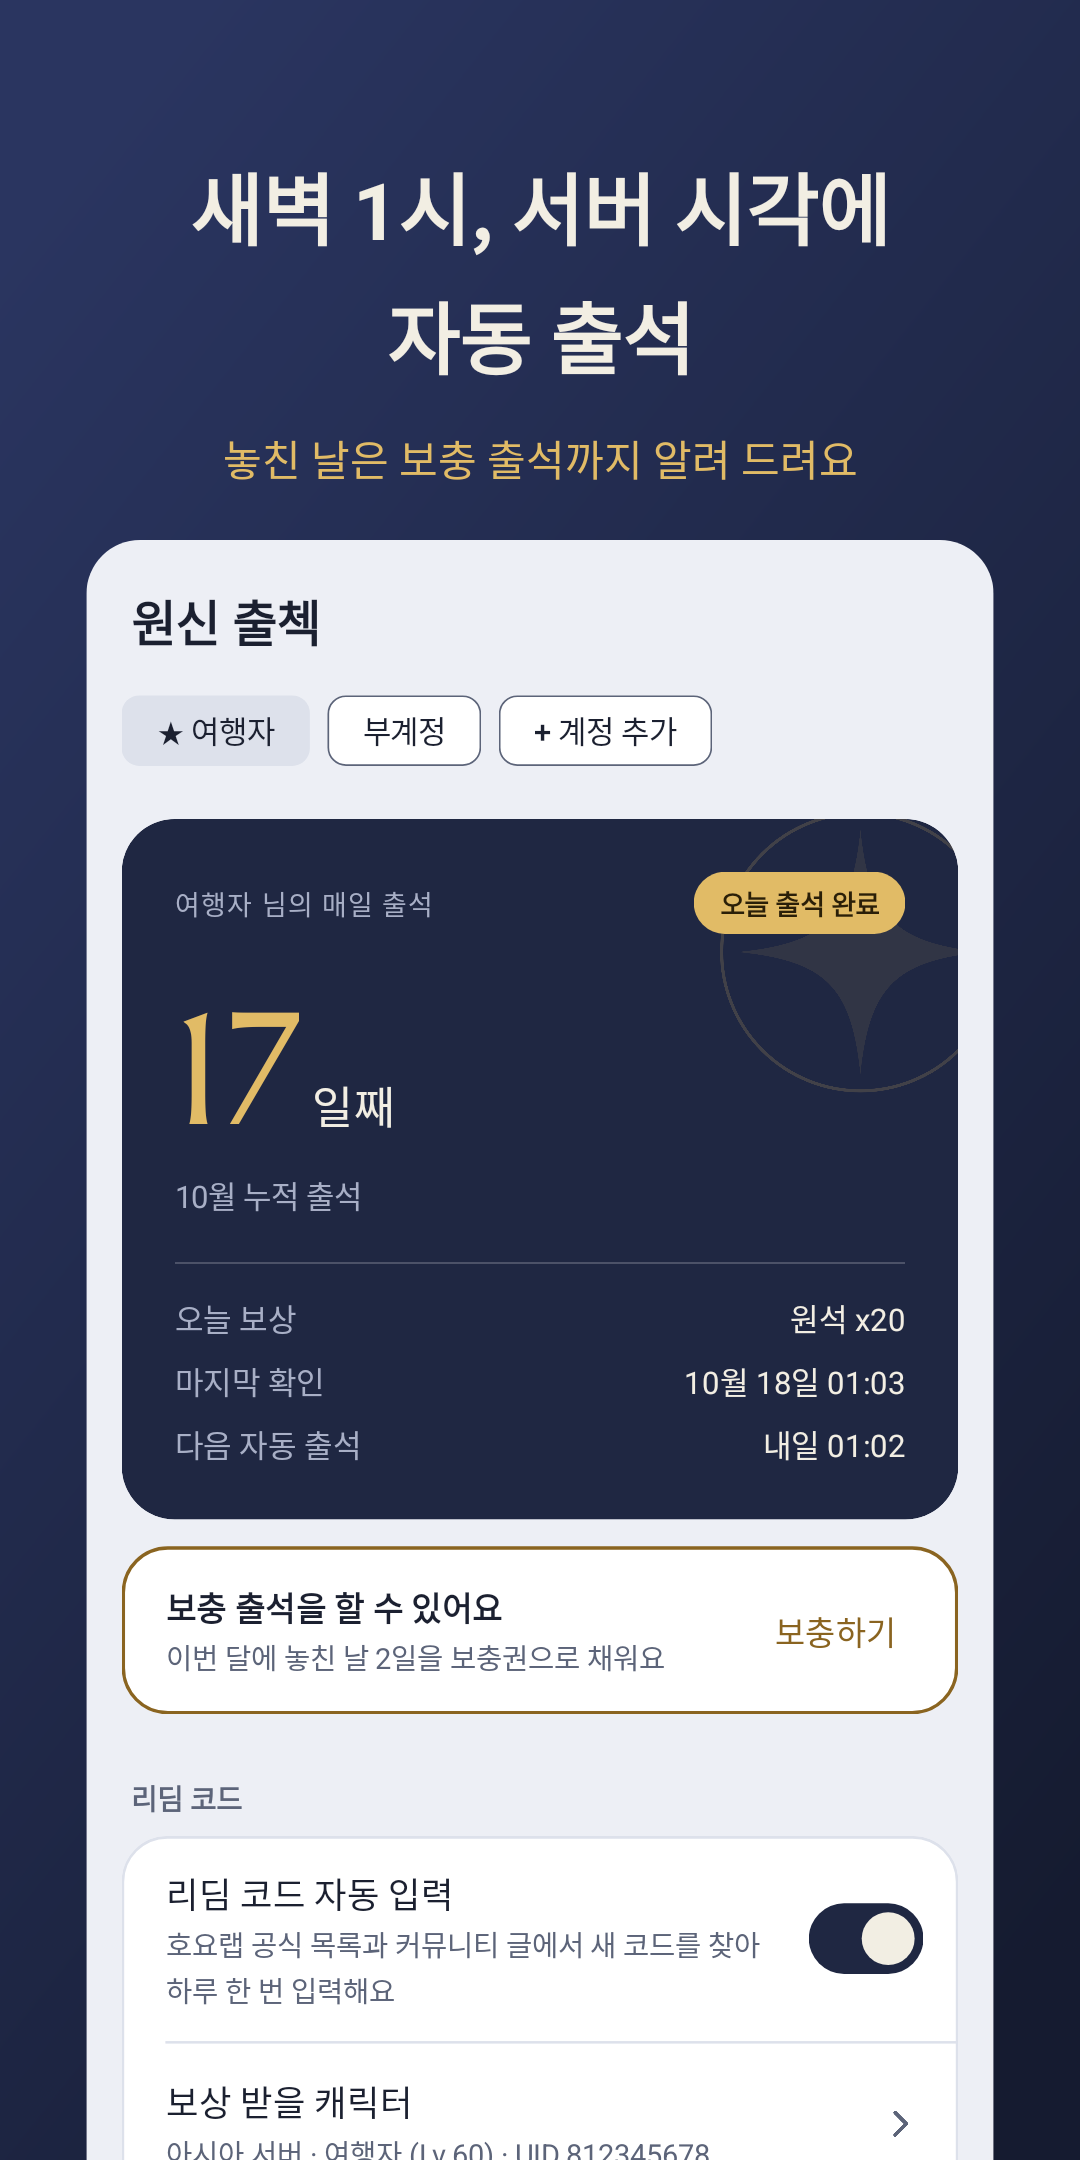
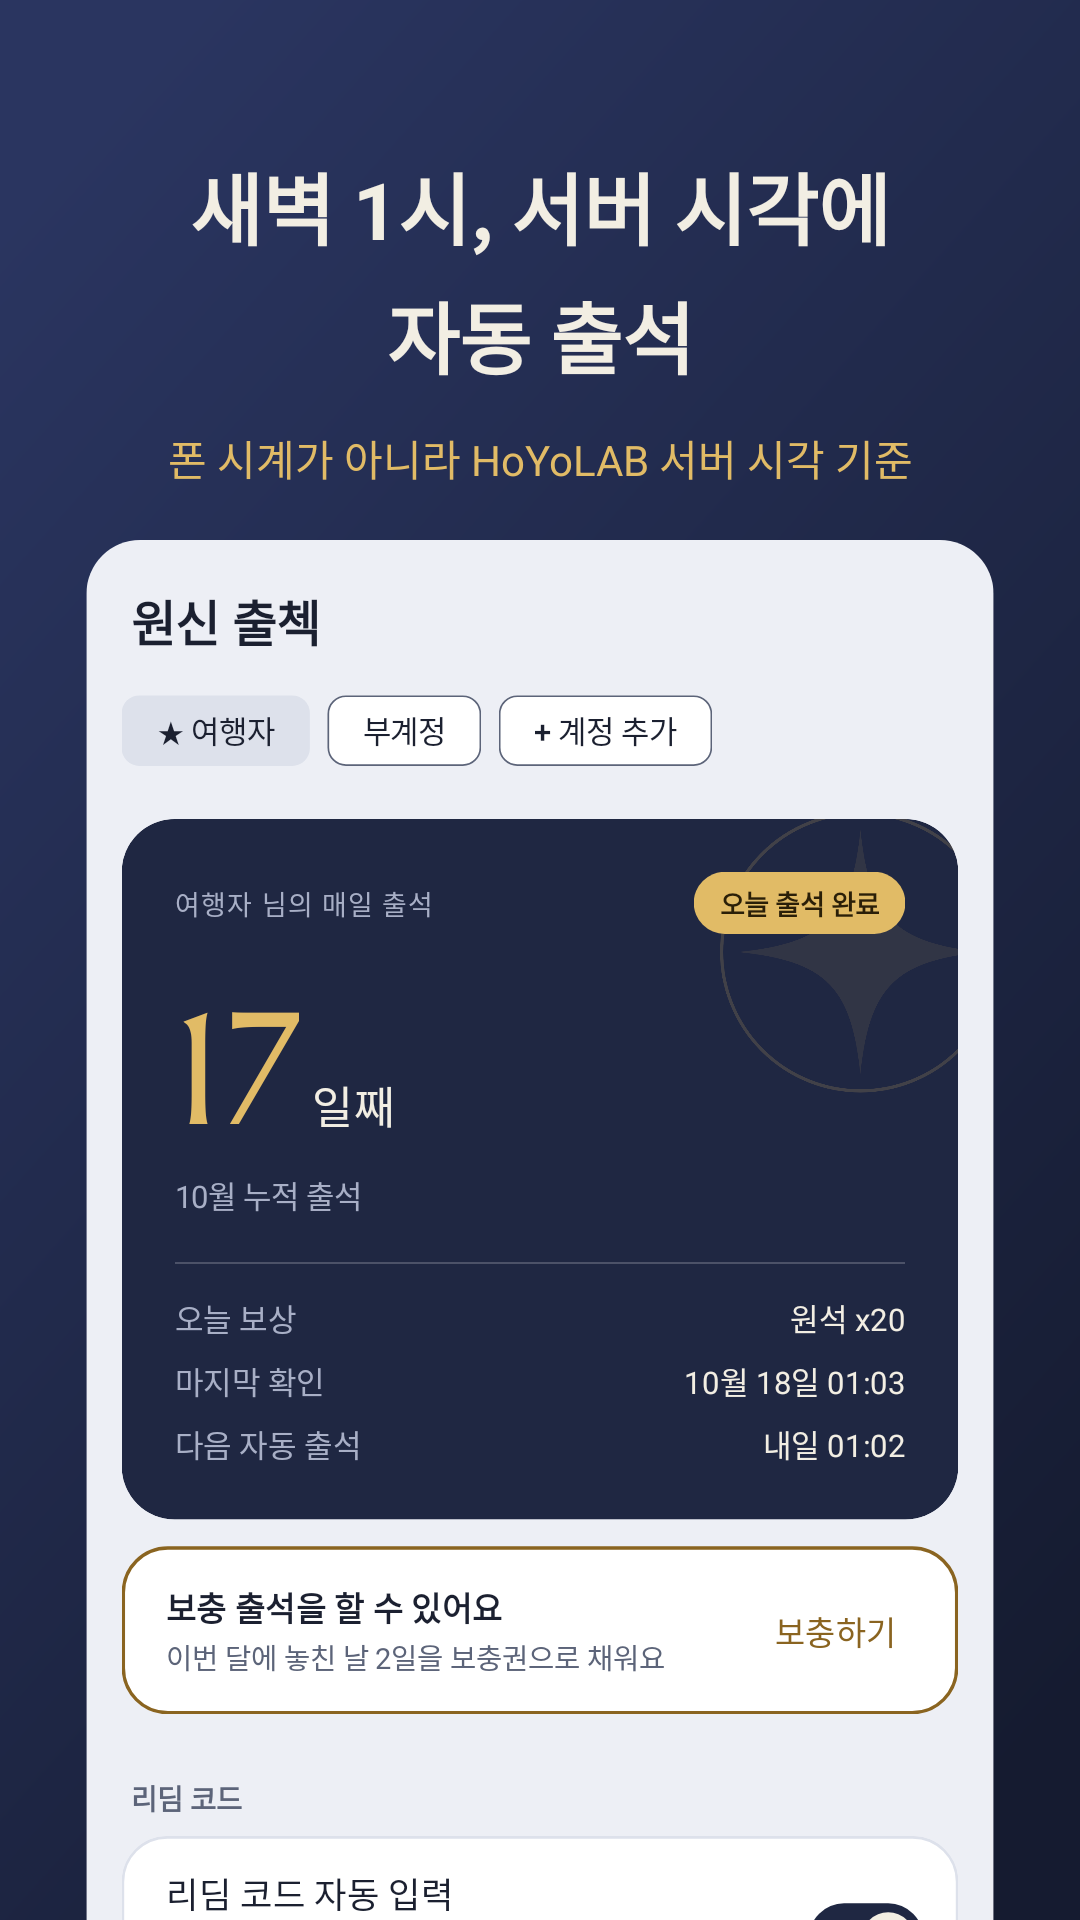
스토어 스크린샷을 1080×1920(9:16) 4장으로
플레이는 9:16 비율만 받고, 추천에 쓰이려면 1080px 이상 4장이 필요하다.
보충 출석 장면을 하나 더 넣었다.

Claude-Session: https://claude.ai/code/session_01AVkzu9p2ytMeGHejvvs68H

diff --git a/app/src/test/java/kr/sumi/checkin/StoreAssetsTest.kt b/app/src/test/java/kr/sumi/checkin/StoreAssetsTest.kt
@@ -20,7 +20,7 @@ import org.junit.Test
 /**
  * 플레이 스토어 등록 이미지. ./gradlew recordPaparazziDebug 후 app/src/test/snapshots/images의
  * StoreAssetsTest_* 파일을 store/ 폴더로 옮겨 쓴다.
- * 아이콘 512×512, 대표 이미지 1024×500, 스크린샷 1080×2160(세로 2:1 이하).
+ * 아이콘 512×512, 대표 이미지 1024×500, 스크린샷 1080×1920(플레이는 9:16만 받는다).
  */
 class StoreAssetsTest {
     @get:Rule
@@ -93,23 +93,23 @@ class StoreAssetsTest {
     )
 
     /**
-     * 스토어 스크린샷 1080×2160: 위에 큰 문구, 아래에 실제 앱 화면(activity_main)을 줄여 얹는다.
-     * scrollToRedeem이면 화면을 리딤 코드 칸부터 보이게 내린다.
+     * 스토어 스크린샷 1080×1920: 위에 큰 문구, 아래에 실제 앱 화면(activity_main)을 줄여 얹는다.
+     * scrollTo를 주면 그 뷰가 화면 위쪽에 오도록 내린다.
      */
-    private fun screenshot(state: MainUiState, night: Boolean, title: String, sub: String, scrollToRedeem: Boolean = false) {
-        // 1080×2160 화면을 420dpi로 그린다(일반적인 휴대폰 밀도).
+    private fun screenshot(state: MainUiState, night: Boolean, title: String, sub: String, scrollTo: Int? = null, aboveDp: Int = 44) {
+        // 앱 화면은 1080×2160 휴대폰(420dpi)으로 그리고, 스크린샷 틀은 1080×1920이다.
         paparazzi.unsafeUpdateConfig(DeviceConfig.PIXEL_6.copy(
-            screenWidth = 1080, screenHeight = 2160, nightMode = if (night) NightMode.NIGHT else NightMode.NOTNIGHT,
+            screenWidth = 1080, screenHeight = 1920, nightMode = if (night) NightMode.NIGHT else NightMode.NOTNIGHT,
         ))
         val context = paparazzi.context
         val app = paparazzi.inflate<android.widget.ScrollView>(R.layout.activity_main)
         app.isVerticalScrollBarEnabled = false
         MainScreen(app).render(state)
-        if (scrollToRedeem) {
+        if (scrollTo != null) {
             app.measure(View.MeasureSpec.makeMeasureSpec(1080, View.MeasureSpec.EXACTLY), View.MeasureSpec.makeMeasureSpec(2160, View.MeasureSpec.EXACTLY))
             app.layout(0, 0, 1080, 2160)
-            val group = app.findViewById<View>(R.id.redeemGroup)
-            app.scrollTo(0, group.top - (44 * context.resources.displayMetrics.density).toInt())
+            val target = app.findViewById<View>(scrollTo)
+            app.scrollTo(0, target.top - (aboveDp * context.resources.displayMetrics.density).toInt())
         }
 
         // 앱 화면은 실제 크기(1080px 폭)로 배치하고 0.84배로 줄여 둥근 모서리 안에 넣는다.
@@ -156,16 +156,21 @@ class StoreAssetsTest {
     }
 
     @Test fun screenshot1Redeem() = screenshot(
-        redeemed, night = false, scrollToRedeem = true,
+        redeemed, night = false, scrollTo = R.id.redeemGroup,
         title = "방송 리딤코드,\n알아서 입력돼요", sub = "새 코드가 나오면 고른 캐릭터로 자동 입력",
     )
 
     @Test fun screenshot2CheckIn() = screenshot(
         signed, night = false,
-        title = "새벽 1시, 서버 시각에\n자동 출석", sub = "놓친 날은 보충 출석까지 알려 드려요",
+        title = "새벽 1시, 서버 시각에\n자동 출석", sub = "폰 시계가 아니라 HoYoLAB 서버 시각 기준",
     )
 
-    @Test fun screenshot3Dark() = screenshot(
+    @Test fun screenshot3MakeUp() = screenshot(
+        signed, night = false, scrollTo = R.id.makeUpCard, aboveDp = 150,
+        title = "놓친 날은\n보충 출석까지", sub = "알림을 누르면 바로 보충해요",
+    )
+
+    @Test fun screenshot4Dark() = screenshot(
         signed, night = true,
         title = "여러 계정도\n차례로 자동 출석", sub = "광고 없이, 로그인 정보는 폰 안에만",
     )

diff --git a/store/README.md b/store/README.md
@@ -61,7 +61,7 @@ https://github.com/lesumein/genshin-checkin
 |---|---|---|
 | 앱 아이콘 | `icon512.png` | 512×512 |
 | 그래픽 이미지 | `featureGraphic.png` | 1024×500 |
-| 휴대전화 스크린샷 | `screenshot1Redeem.png`(리딤), `screenshot2CheckIn.png`(자동 출석), `screenshot3Dark.png`(여러 계정·다크) — 이 순서로 올린다 | 1080×2160 |
+| 휴대전화 스크린샷 | `screenshot1Redeem.png`(리딤), `screenshot2CheckIn.png`(자동 출석), `screenshot3MakeUp.png`(보충 출석), `screenshot4Dark.png`(여러 계정·다크) — 이 순서로 올린다 | 1080×1920 (플레이는 16:9 / 9:16만 받는다) |
 
 이미지는 실제 화면 레이아웃을 그린 것이다(`app/src/test/.../StoreAssetsTest.kt`). 화면이 바뀌면
 `./gradlew recordPaparazziDebug` 후 `app/src/test/snapshots/images/*StoreAssetsTest_*`를 이 폴더로 복사한다.
